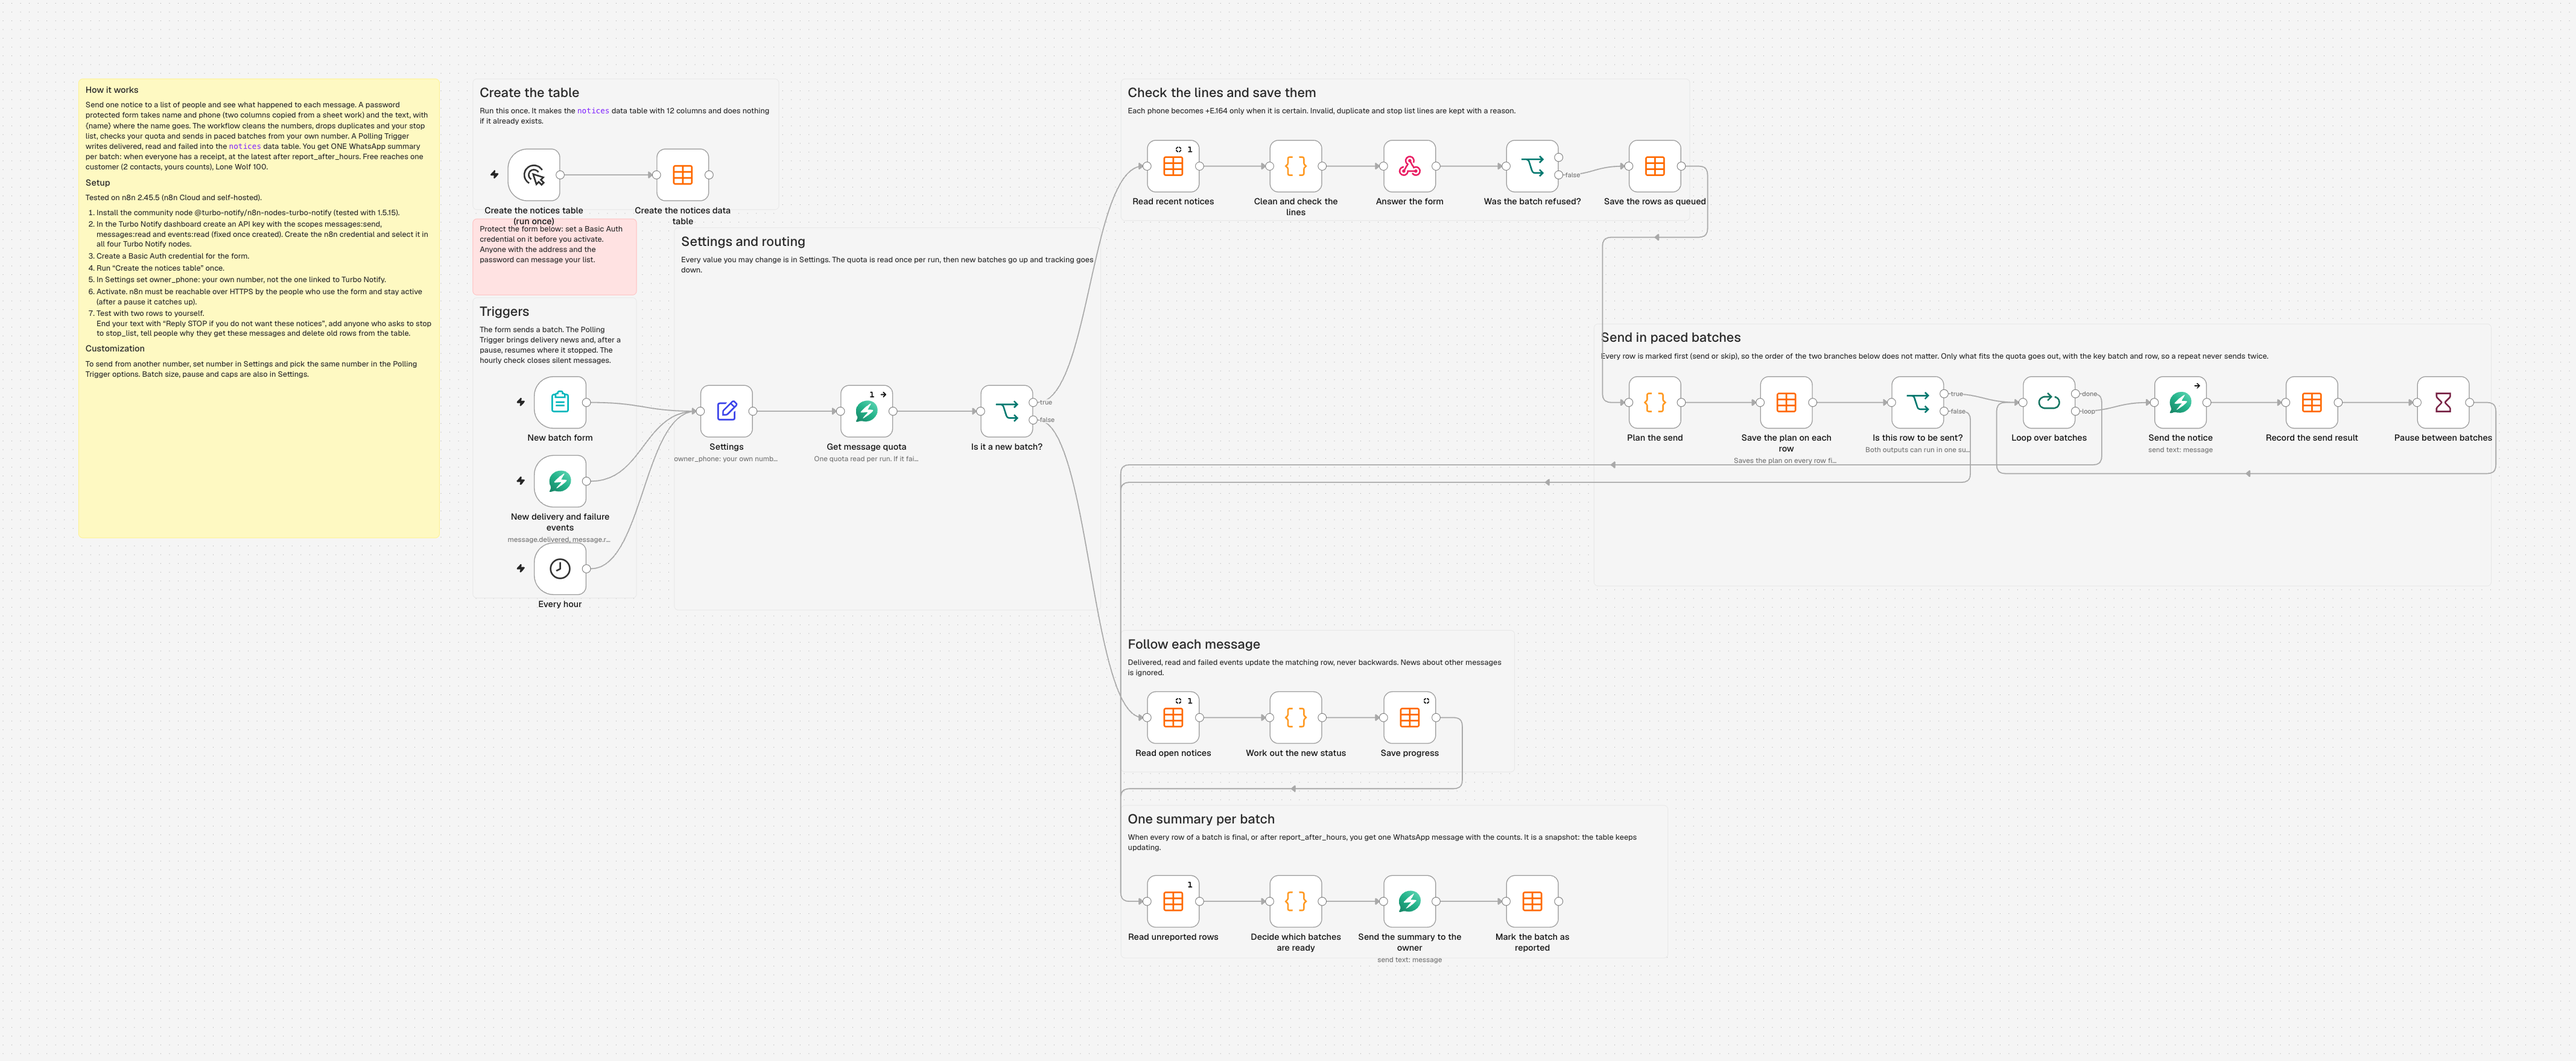
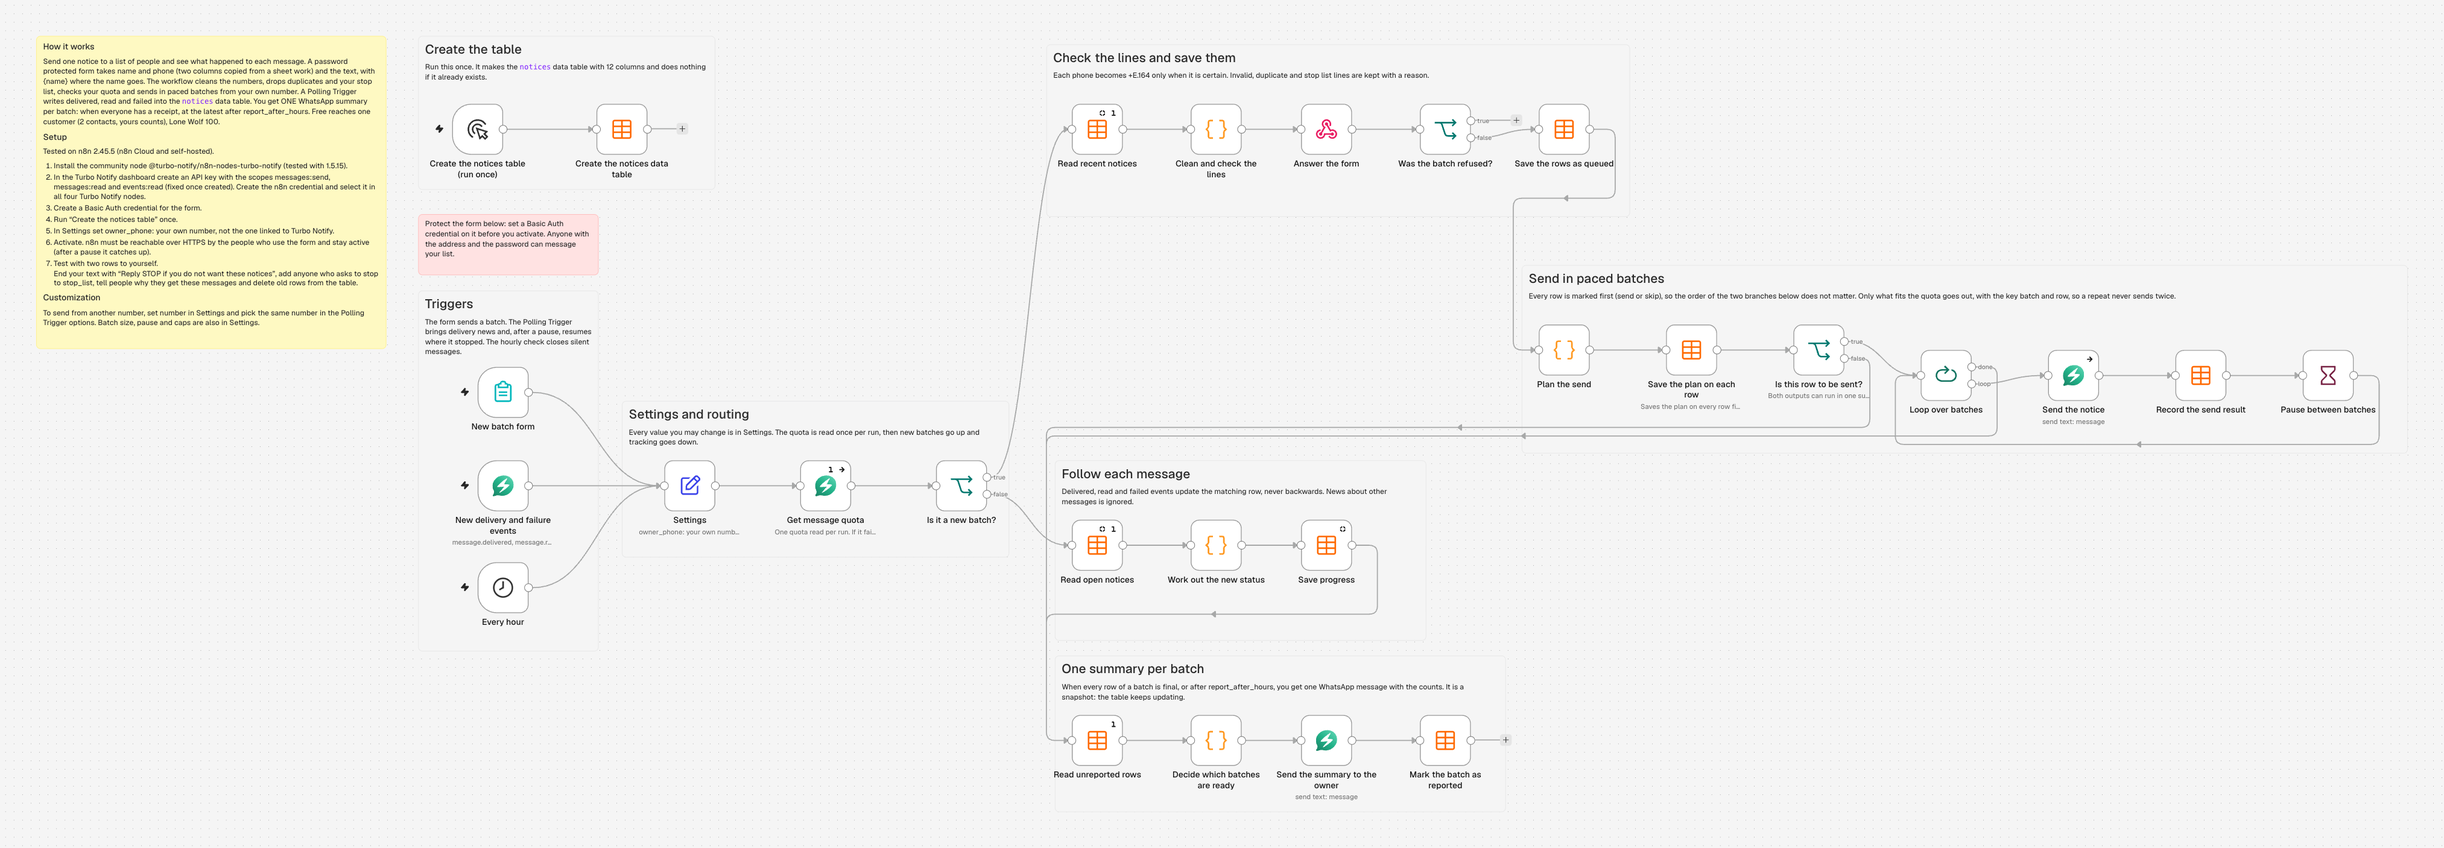
fix: lay out the canvas of the notices and support templates so labels and descriptions stay clear, and retake their images

diff --git a/templates/ai-support-assistant-with-human-handoff/README.md b/templates/ai-support-assistant-with-human-handoff/README.md
@@ -163,13 +163,13 @@ Tested end to end from the exact `workflow.json` (SHA-256 below), in a fresh thr
 | | |
 |---|---|
 | Date | 2026-11-17 |
[2 lines of base64/hex data omitted]
 | n8n | 2.45.5 (image `n8nio/n8n:2.45.5`, id `sha256:9f6d0a5987ab5a297c4b0b38fbf1a22285dd1364551478e93f03d506908fa74c`) |
 | Package | `@turbo-notify/n8n-nodes-turbo-notify` 1.5.15 (built from this repository) |
 | Mock API | `templates/harness/mock-api.mjs`, same routes, answers, events and errors as `public-docs-web/public/openapi.json` |
 | Model | `templates/harness/fake-llm.mjs`, scripted replies and tool calls |
 | Patches applied to `workflow.json` by the scenario | none in the file. The workflow is imported as exported, and the scenario proves it refuses to run with the placeholders. Then it types the values a person must type, through the stored workflow: `owner_phone` (a fictitious test number), `business_name`, `business_facts`, and temporarily `ignore_phones` and `audio_to_person`. It flips the `sample` flag of the four sample FAQ rows, as a person rewriting the FAQ would. The mock's contact quota is lowered for one step |
-| Scenario | `test/scenario.mjs`, 33 steps, 443 assertions, 0 failed, 198 s (most of it waiting for real poller ticks). Run once on this exact file after the last edit, and it passed. An earlier version of the file failed once in the "contact quota used up" step on a run that shared the machine with another n8n container (that step took 31 s instead of 1 to 2 s; the cause was not found). It did not come back in this run, and the assertion message now prints the error and the sends if it does. On a loaded machine n8n can also fail a step with "Expression timed out" or "Turbo Notify did not answer in time"; the poller step skips a failed tick the way the next real tick would |
+| Scenario | `test/scenario.mjs`, 33 steps, 776 assertions, 0 failed, 238 s (most of it waiting for real poller ticks; the count grew with the layout checks of the notes added to the "as exported" step). Run on this exact file after the last change of the canvas layout (2026-11-17), and it passed. An earlier version of the file failed once in the "contact quota used up" step on a run that shared the machine with another n8n container (that step took 31 s instead of 1 to 2 s; the cause was not found). It did not come back in this run, and the assertion message now prints the error and the sends if it does. On a loaded machine n8n can also fail a step with "Expression timed out" or "Turbo Notify did not answer in time"; the poller step skips a failed tick the way the next real tick would |
 | Other checks | the module's own jest suites (17 suites, 359 tests, including the template tests: valid JSON, no placeholder credentials, no em or en dash, no invisible or bidirectional control characters, every node connected) and `npm run lint`, all green |
 
 Rerun:
@@ -305,5 +305,5 @@ With `--max-sends 7` the question, STOP, the second question and START all go ov
 - Reactivation after a long downtime was run for a few seconds of downtime, not hours or days.
 - Multiple n8n workers, queue mode, an n8n restart in the middle of a run, and the Simple Memory node on n8n Cloud.
 - n8n Cloud itself (the claim that the package is available there rests on the n8n verification noted in the module README).
-- The canvas look: how the settings notes under the node render, and whether the sticky notes sit where intended, was computed from node and note rectangles, not seen in a browser.
+- The canvas look was checked in the real n8n 2.45.5 editor on 2026-11-17 (`workflow.png` is that screenshot of the final file): every group leaves room under its nodes for the labels, no group description is crossed by a wire or a node, and the red note covers only the `Your settings` node. Other n8n versions can draw labels and wires a little differently.
 - Anything above a few hundred events: the workflow handles events one by one.

diff --git a/templates/bulk-notices-with-delivery-tracking/README.md b/templates/bulk-notices-with-delivery-tracking/README.md
@@ -157,9 +157,9 @@ Tested on 2026-11-17, **n8n 2.45.5** (image `n8nio/n8n:2.45.5`, digest `sha256:9
 
 | | |
 |---|---|
[2 lines of base64/hex data omitted]
 | Method | a stateful simulation of the Turbo Notify public API (`templates/harness`, built from `openapi.json`), driven over HTTP, plus live round trips of the Polling Trigger |
-| Result | passed on the final file: 24 steps, 635 assertions, 0 failed, 202 s |
+| Result | passed on the final file: 24 steps, 635 assertions, 0 failed, 188 s (run again on 2026-11-17 after the last change of the canvas layout; `workflow.png` is a screenshot of this file in the n8n 2.45.5 editor) |
 
 Tested end to end in n8n 2.45.5 against a simulated Turbo Notify API (same routes, answers, events and errors as the public contract). An earlier revision of this workflow was also run against the real API with real WhatsApp delivery to a test number (see "Real API runs").
 
